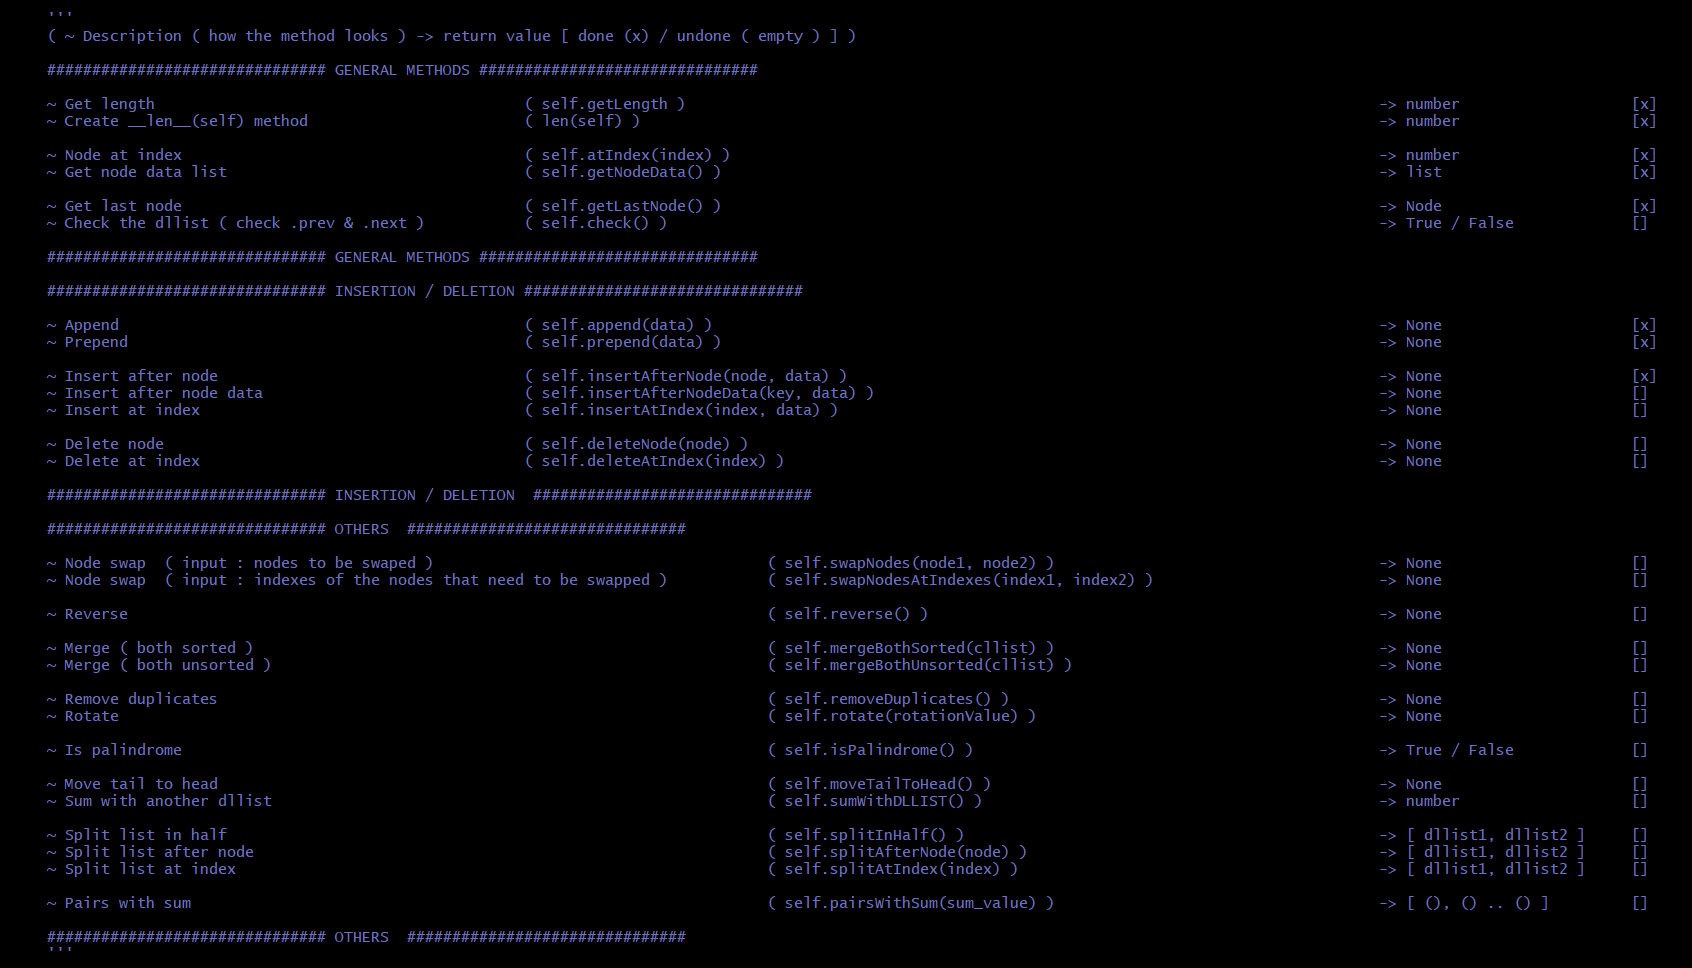
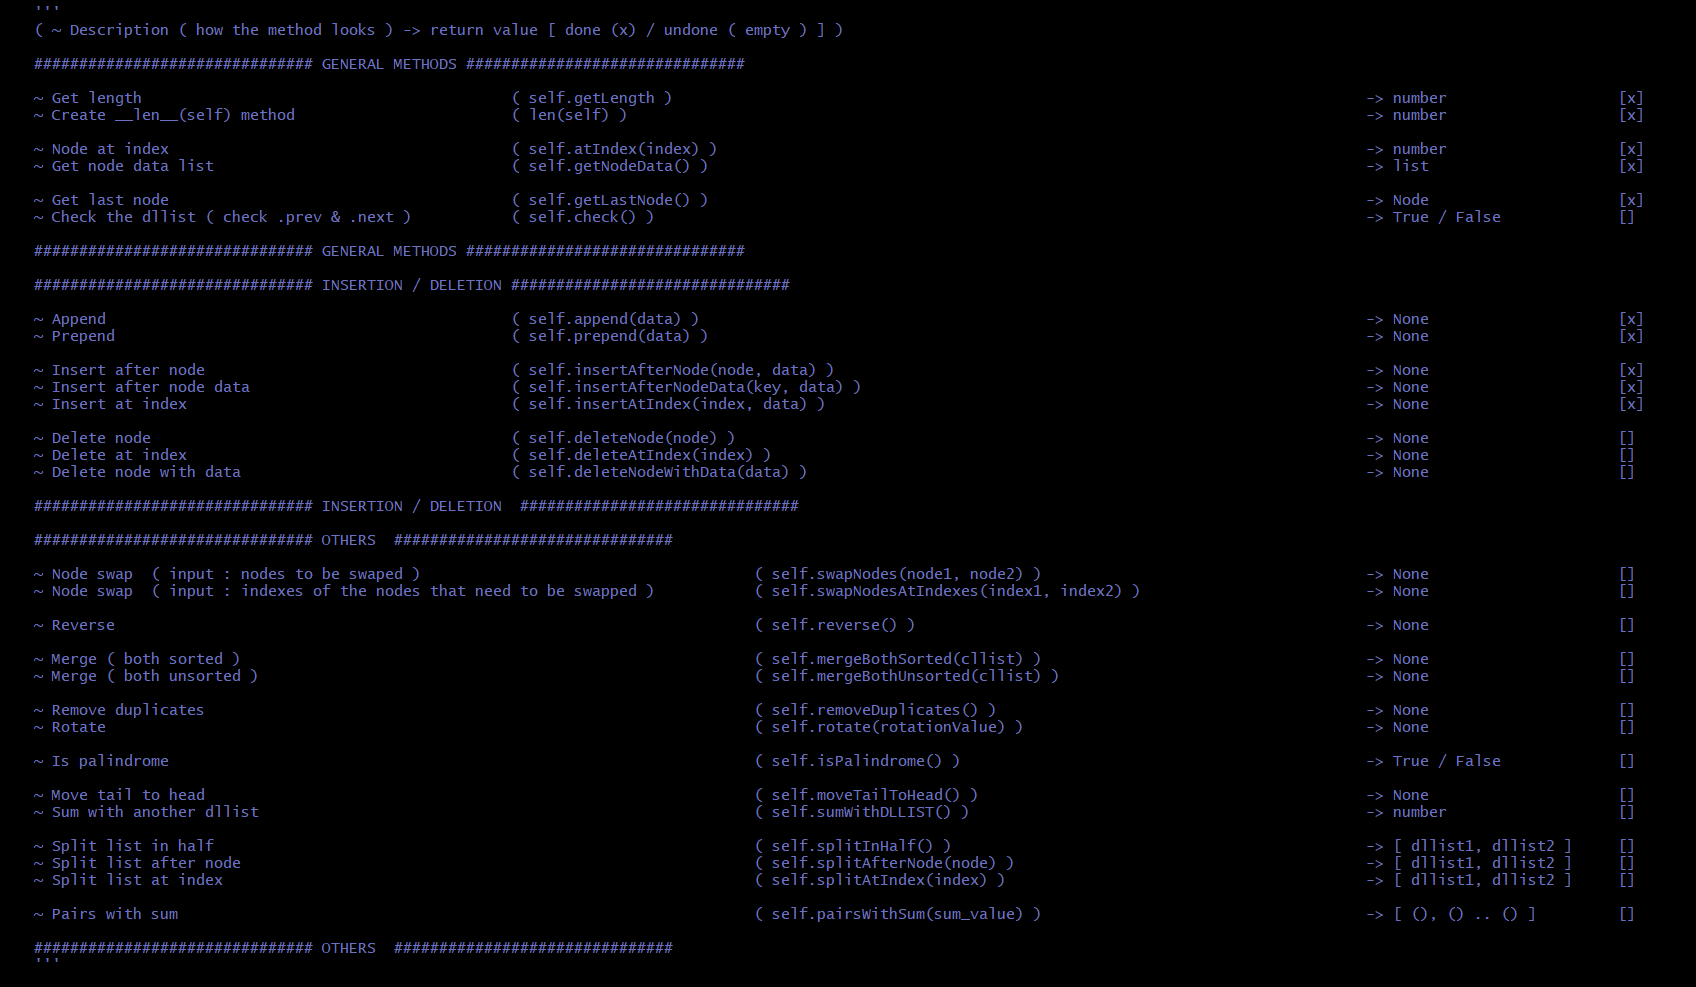
Doubly Linked List - Final Code - Finish all insertion/deletion methods

diff --git a/Data structures ( code in python )/Linear Data Structures/Doubly Linked List ( Python Code )/DoublyLinkedList_FinalCode.py b/Data structures ( code in python )/Linear Data Structures/Doubly Linked List ( Python Code )/DoublyLinkedList_FinalCode.py
@@ -37,11 +37,12 @@ class DoublyLinkedList(object):
         ~ Prepend                                            ( self.prepend(data) )                                                                         -> None                     [x]
 
         ~ Insert after node                                  ( self.insertAfterNode(node, data) )                                                           -> None                     [x]
-        ~ Insert after node data                             ( self.insertAfterNodeData(key, data) )                                                        -> None                     []
-        ~ Insert at index                                    ( self.insertAtIndex(index, data) )                                                            -> None                     []
+        ~ Insert after node data                             ( self.insertAfterNodeData(key, data) )                                                        -> None                     [x]
+        ~ Insert at index                                    ( self.insertAtIndex(index, data) )                                                            -> None                     [x]
 
         ~ Delete node                                        ( self.deleteNode(node) )                                                                      -> None                     []
         ~ Delete at index                                    ( self.deleteAtIndex(index) )                                                                  -> None                     []
+        ~ Delete node with data                              ( self.deleteNodeWithData(data) )                                                              -> None                     []
 
         ############################### INSERTION / DELETION  ###############################
 
@@ -142,6 +143,10 @@ class DoublyLinkedList(object):
         # Check if there is a head node in the dllist. If there is not, then create one and then return 
         if not self.head:
             self.head = Node(data)
+
+            # Increment the length of the dllist
+            self.length += 1
+
             return
 
         # Iterate over all the nodes in the list till we get to the last node
@@ -155,6 +160,9 @@ class DoublyLinkedList(object):
 
         appendNode.prev = current
         current.next = appendNode
+
+        # Increment the length of the dllist
+        self.length += 1
         
     def prepend(self, data):
         # Check the 'data' argument
@@ -164,6 +172,10 @@ class DoublyLinkedList(object):
         # Check if there is a head node in the dllist. If there is not, then create one and then return
         if not self.head:
             self.head = Node(data)
+
+            # Increment the length of the dllist
+            self.length += 1
+
             return
 
         # Create the prepend node and set its values, set new values for the current head as well and then update the head node of the dllist
@@ -173,6 +185,9 @@ class DoublyLinkedList(object):
         self.head.prev = prependNode
 
         self.head = prependNode
+
+        # Increment the length of the dllist
+        self.length += 1
 
     def insertAfterNode(self, node, data):
         # Check the node & data argument
@@ -198,28 +213,232 @@ class DoublyLinkedList(object):
             insertNode.next = nextNode
 
         insertNode.prev = current
+        current.next = insertNode
 
-        current.next = insertNode 
+        # Increment the length of the dllist
+        self.length += 1
+    
+    def insertAfterNodeData(self, key, data):
+        # Check the key & data
+        if not key or not data:
+            raise ValueError("The key & the passed in data arguments are not valid.")
 
+        # Iterate over the dllist and try to get the node with the specified 'key'
+        current = self.head
+
+        while current:
+            if current.data == key:
+                break
+            
+            current = current.next
+
+        if not current:
+            raise ValueError("The given 'key' argument couldn't be found in the dllist.")
+
+        # Create the insert node
+        insertNode = Node(data)
+
+        if current.next:
+            nextNode = current.next
+            nextNode.prev = insertNode 
+
+            insertNode.next = nextNode
+
+        insertNode.prev = current
+        current.next = insertNode
+
+        # Increment the length of the dllist
+        self.length += 1
+
+    def insertAtIndex(self, index, data):
+        # Check the index & the data
+        if index > self.length or index < 0:
+            raise IndexError("The given index is either too big for the dllist or it's too small ( < 0 )")
+
+        if not data:
+            raise ValueError("The given data value must be valid.")
+
+        # In case the index is the length of the dllist, append a new node to the dllist with the given data
+        if index == self.length:
+            self.append(data)
+            
+            # Increment the length of the dllist
+            self.length += 1
+
+            return
+
+        # Iterate over the dllist and get to the given index by keeping track of the current index and of the current node
+        current = self.head
+        indexTrack = 0
+
+        while indexTrack < index:
+            current = current.next
+            indexTrack += 1
+        
+        # Create the insert node
+        insertNode = Node(data)
+
+        if current.next:
+            nextNode = current.next
+
+            nextNode.prev = insertNode
+            insertNode.next = nextNode
+
+        insertNode.prev = current
+        current.next = insertNode
+
+        # Increment the length of the dllist
+        self.length += 1
+
+    def deleteNode(self, node):
+        # Check the node
+        if type(node) != Node:
+            raise ValueError("The passed in 'node' argument must be of type 'Node'")
+
+        # Iterate over the dllist till we find the given node ( keep track of the current & previous node )
+        current = self.head
+
+        while current:
+            if current == node:
+                break
+
+            prev = current 
+            current = current.next
+
+        # Check if the current node is the node that we got in the args, if not raise ValueError
+        if not current:
+            raise ValueError("The passed in node couldn't be found in the dllist.")
+
+        # Check if the node that must be deleted is a the head node 
+        if current == self.head:
+            if current.next:
+                nextNode = current.next
+
+                nextNode.prev = None
+            
+            self.head = current.next
+            current = None
+        
+            # Decrement length of the dllist
+            self.length -= 1
+
+            return
+
+        # The node that must be deleted is not the head node, so modify the changes of the previous & next node without making any changes to self.head
+        prev = current.prev
+
+        if current.next:
+            nextNode = current.next
+
+            nextNode.prev = prev
+        
+        prev.next = current.next
+        current = None
+
+        # Decrement the length of the dllist
+        self.length -= 1
+
+    def deleteNodeAtIndex(self, index):
+        # Check the given index
+        if index >= self.length or index < 0:
+            raise IndexError("The given index either too big for the dllist or it's too small ( < 0 ).")
+
+        # Iterate over the dllist while keeping track of the current node and of the index
+        current = self.head
+        indexTrack = 0
+
+        while indexTrack < index:
+            current = current.next
+            indexTrack += 1
+
+        # Check if the node that must be deleted is the head node
+        if index == 0:
+            if self.head.next:
+                nextNode = self.head.next
+
+                nextNode.prev = None
+
+            self.head = self.head.next
+
+            # Decrement the length of the dllist
+            self.length -= 1
+        
+        # The current node is not the head node
+        prev = current.prev
+
+        if current.next:
+            nextNode = current.next
+
+            nextNode.prev = prev
+            
+        prev.next = current.next
+
+        # Decrement the length of the list
+        self.length -= 1
+
+    def deleteNodeWithData(self, data):
+        # Check the passed in 'data' value
+        if not data:
+            raise ValueError("The passed in data value is not valid.")
+
+        # Iterate over the dllist and keep track of the current node. If the current node will have the same value as the 'data' arg, break the loop
+        current = self.head
+
+        while current:
+            if current.data == data:
+                break
+
+            current = current.next
+
+        # Check the current node
+        if not current:
+            raise ValueError("The passed in 'data' value couldn't be found in the dllist.")
+
+        # Check if the current node is the head node
+        if current == self.head:
+            if current.next:
+                nextNode = current.next
+
+                nextNode.prev = None
+
+            self.head = current.next
+            current = None
+
+            # Decrement the length of the dllist
+            self.length -= 1
+
+            return
+
+        # The current node is not the head node - >
+        prev = current.prev
+        if current.next:
+            nextNode = current.next
+
+            nextNode.prev = prev
+
+        prev.next = current.next
+
+        # Decrement the length of the dllist
+        self.length -= 1
 
     ############################### INSERTION / DELETION ###############################
 
 dllist = DoublyLinkedList()
 
-for i in list(range(1, 5)):
+for i in list(range(1, 11)):
     dllist.append(i)
 
-print(" START :" )
+print(" START ( length : {0} ) : ".format(len(dllist)))
 pprint.pprint(dllist.getNodeData(), indent = 50)
 
 for i in range(3):
     print()
 
-dllist.insertAfterNode(dllist.head.next.next.next, "A")
+dllist.deleteNodeAtIndex(4)
 
 for i in range(3):
     print()
 
-print(" END: ")
+print(" END ( length : {0} ) : ".format(len(dllist)))
 pprint.pprint(dllist.getNodeData(), indent = 50)
 print("CHECK : {0}".format(dllist.check()))
